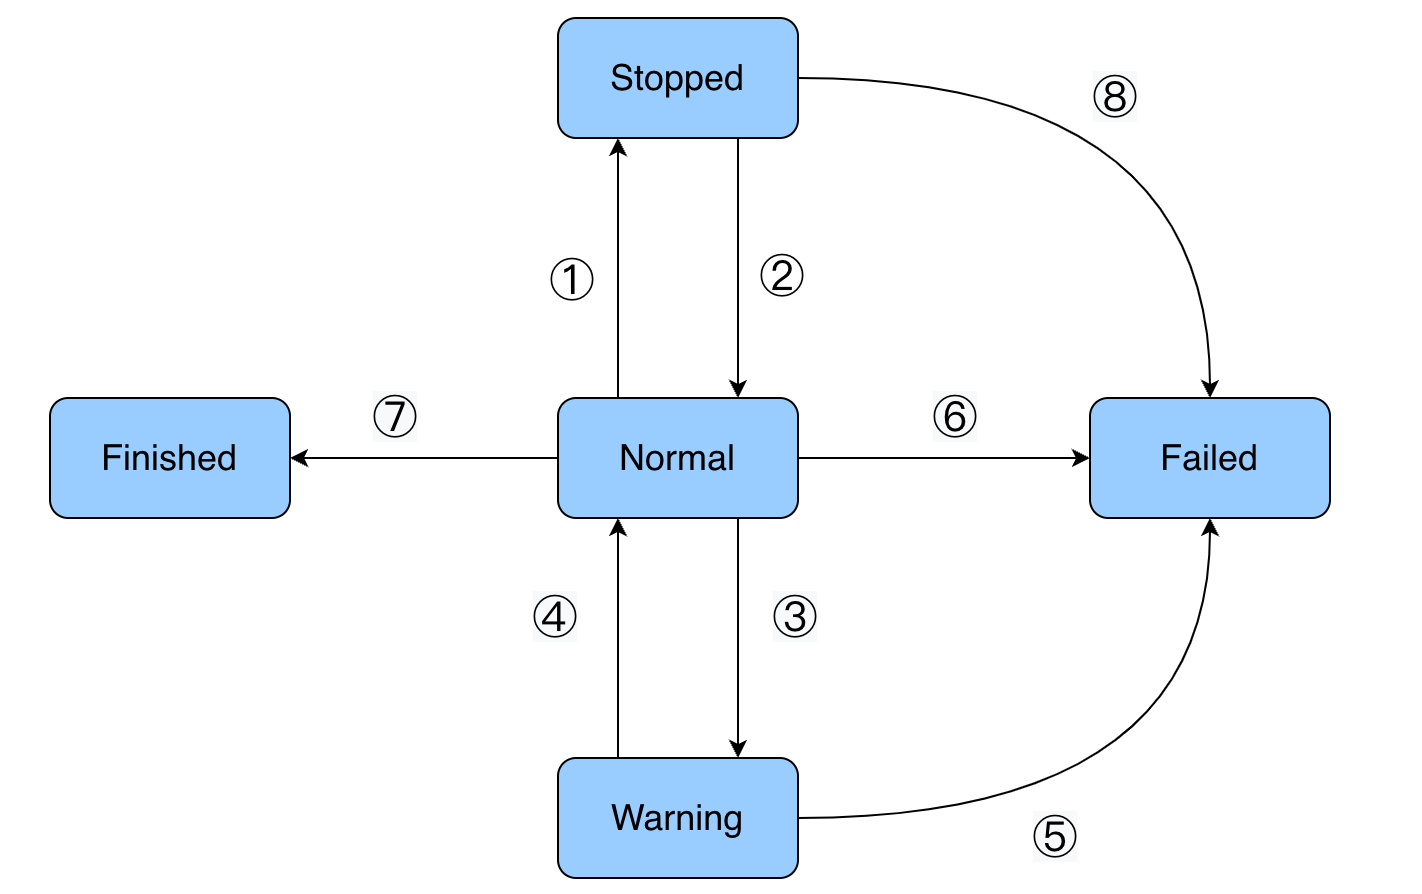
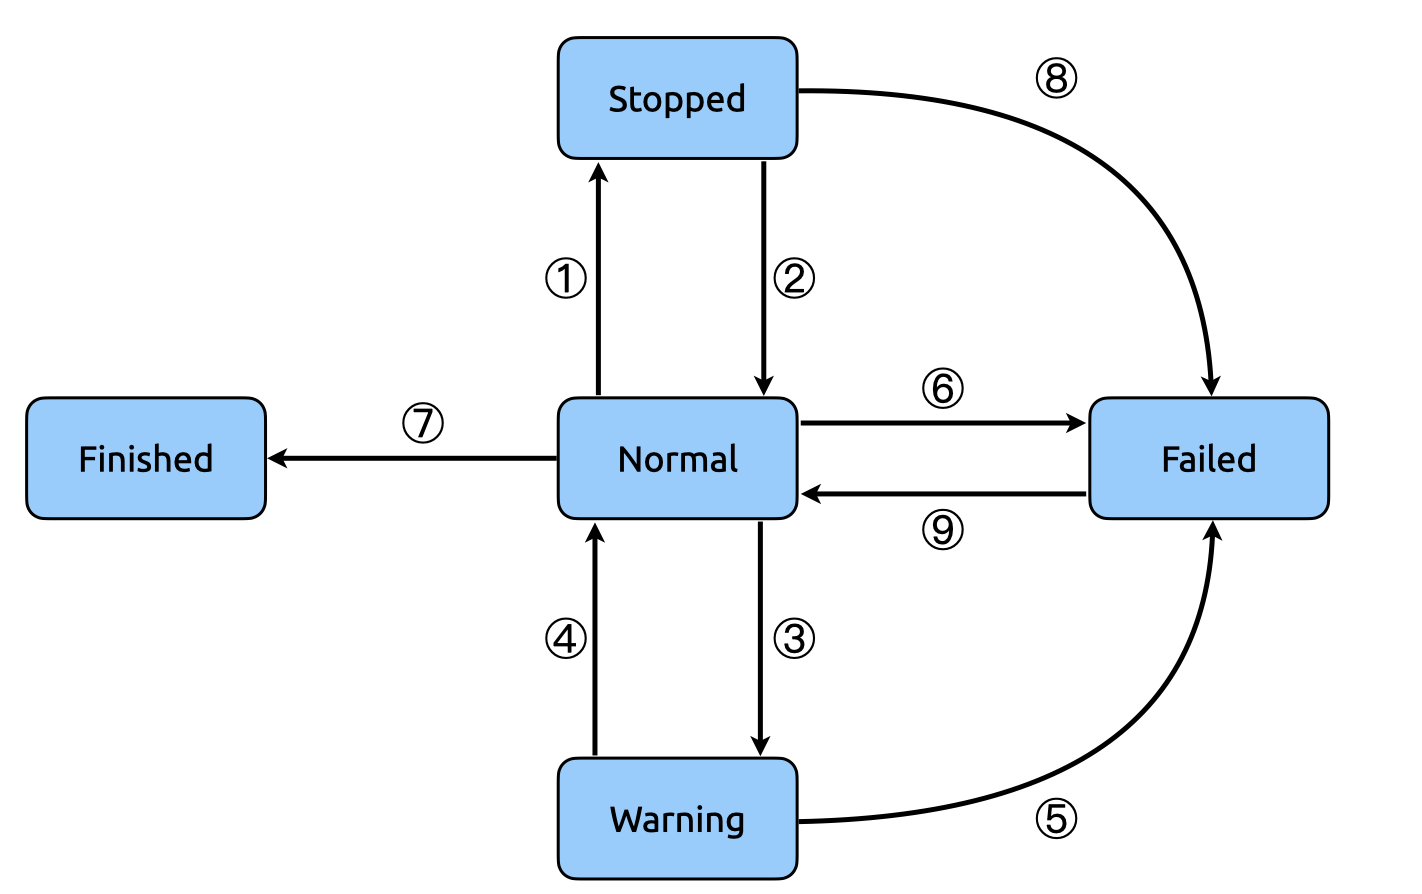
Documented resuming changefeed from Failed state (#16103) (#16260)

diff --git a/ticdc/ticdc-changefeed-overview.md b/ticdc/ticdc-changefeed-overview.md
@@ -19,7 +19,7 @@ Changefeed 是 TiCDC 中的单个同步任务。Changefeed 将一个 TiDB 集群
 - Stopped：同步任务停止，由于用户手动暂停 (pause) changefeed。处于这个状态的 changefeed 会阻挡 GC 推进。
 - Warning：同步任务报错，由于某些可恢复的错误导致同步无法继续进行。处于这个状态的 changefeed 会不断尝试继续推进，直到状态转为 Normal。最大重试时间为 30 分钟，超过该时间，changefeed 会进入 failed 状态。 处于这个状态的 changefeed 会阻挡 GC 推进。
 - Finished：同步任务完成，同步任务进度已经达到预设的 TargetTs。处于这个状态的 changefeed 不会阻挡 GC 推进。
-- Failed：同步任务失败。由于发生了某些不可恢复的错误，导致同步无法继续进行，并且无法自动恢复。为了让用户有足够的时间处理故障，处于这个状态的 changefeed 会阻塞 GC 推进，阻塞时长为 `gc-ttl` 所设置的值，其默认值为 24 小时。
+- Failed：同步任务失败。处于这个状态的 changefeed 不会自动尝试恢复。为了让用户有足够的时间处理故障，处于这个状态的 changefeed 会阻塞 GC 推进，阻塞时长为 `gc-ttl` 所设置的值，其默认值为 24 小时。在此期间，如果导致任务失败的问题被修复，用户可以手动恢复 changefeed。超过了 `gc-ttl` 时长后，如果 changefeed 仍然处于 Failed 状态，则同步任务无法恢复。
 
 > **注意：**
 >
@@ -35,6 +35,7 @@ Changefeed 是 TiCDC 中的单个同步任务。Changefeed 将一个 TiDB 集群
 - ⑥ `changefeed` 遇到不可重试错误，直接进入 failed 状态。此时 `changefeed` 会继续阻塞上游 GC，阻塞时长为 `gc-ttl` 所配置的时长。
 - ⑦ `changefeed` 的同步进度到达 target-ts 设置的值，完成同步。
 - ⑧ `changefeed` 停滞时间超过 `gc-ttl` 所指定的时长，遭遇 GC 推进错误，不可被恢复。
+- ⑨ `changefeed` 停滞时间小于 `gc-ttl` 所指定的时长，故障原因被修复，执行 `changefeed resume` 恢复同步任务。
 
 ## 操作 Changefeed
 
